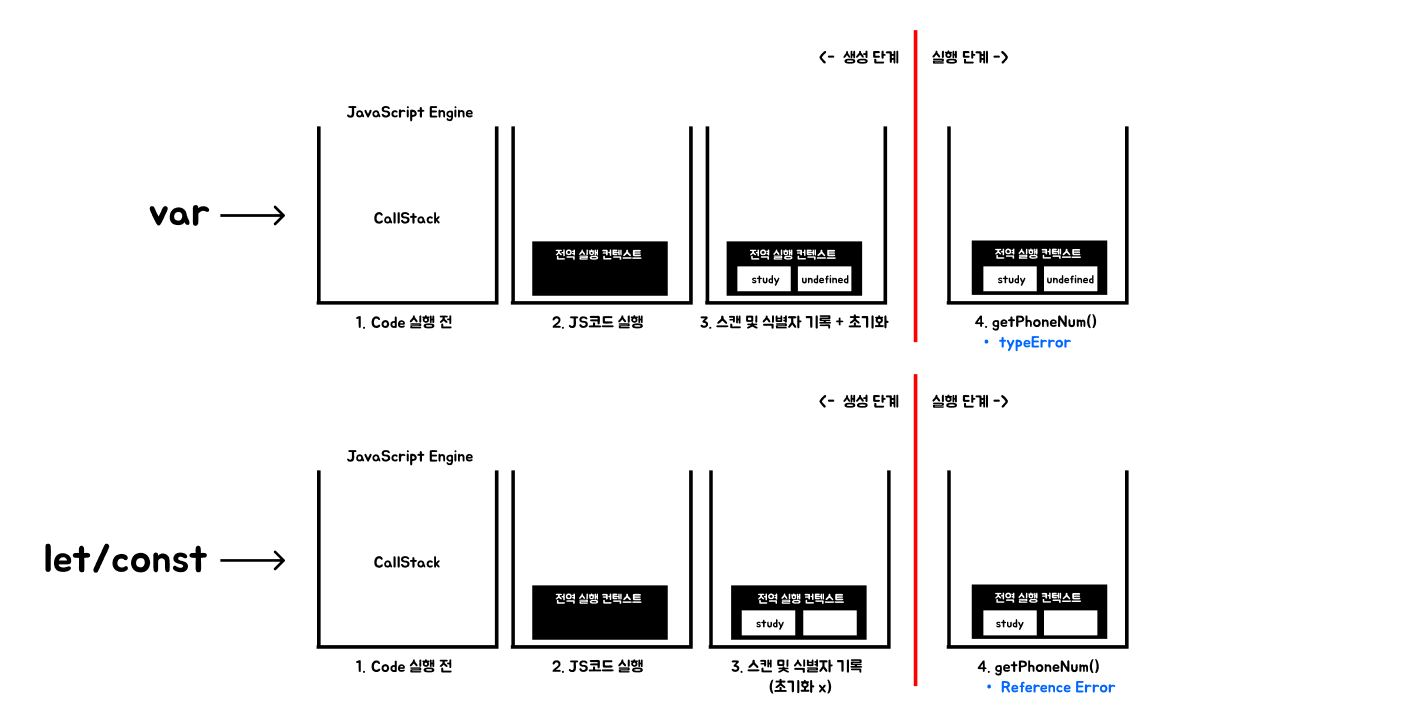
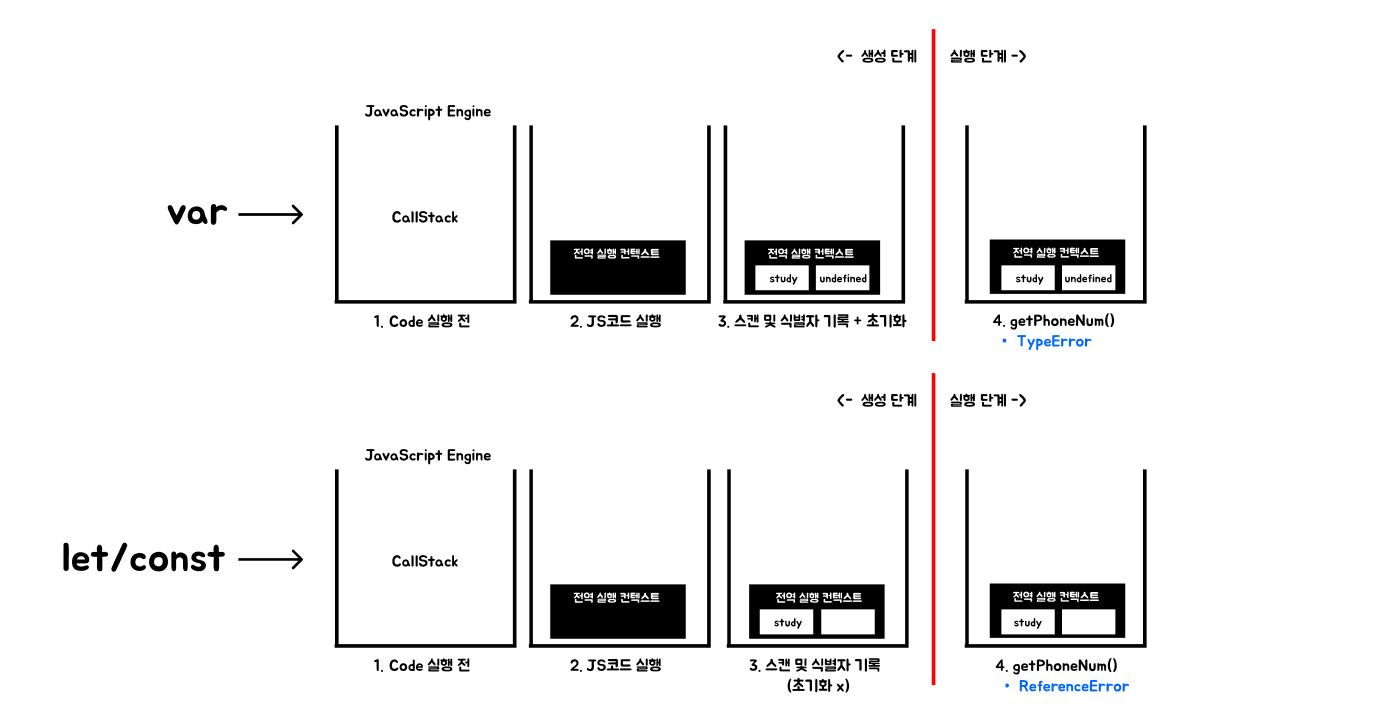
complete writing content: functionExpression and hoisting

diff --git a/pages/web_basic/executionContext.tsx b/pages/web_basic/executionContext.tsx
@@ -340,10 +340,10 @@ export default function Dom() {
                         <h2 className="font-bold title-font text-sm text-gray-900 mb-1 tracking-wider">
                             STEP 1
                         </h2>
-                        <p className="leading-relaxed mb-4">
-                        </p>
                         <p className="leading-relaxed">
+                            자바스크립트 엔진은 코드를 실행하면, 우선 전역 실행 컨텍스트를 생성해 콜 스택에 넣습니다.
                         </p>
+
                     </div>
                 </div>
                 {/* 과정 2 */}
@@ -354,8 +354,10 @@ export default function Dom() {
                             STEP 2
                         </h2>
                         <p className="leading-relaxed mb-4">
+                            그 후 전체 코드를 살펴보며, 선언할 식별자들이 있는지 찾아보고, 있다면 먼저 선언해둡니다.
                         </p>
                         <p className="leading-relaxed">
+                            자바스크립트의 함수는 변수에 담을 수 있습니다. 변수에 담긴 함수는 변수 호이스팅처럼 동작합니다.
                         </p>
                     </div>
                 </div>
@@ -366,22 +368,16 @@ export default function Dom() {
                         <h2 className="font-bold title-font text-sm text-gray-900 mb-1 tracking-wider">
                             STEP 3
                         </h2>
-                        <p className="leading-relaxed mb-4">
-
+                        <p className="leading-relaxed mb-2">
+                            {`선언하는 과정에서 생성해둔 실행 컨텍스트 안에 있는 `}
+                            <strong>환경 레코드에 새로운 식별자를 기록</strong>합니다.
                         </p>
-                        <p className="leading-relaxed">
-                        </p>
-                    </div>
-                </div>
-                {/* 과정 4 */}
-                <div className="flex relative pb-12">
-                    {returnStepLogo(4)}
-                    <div className="flex-grow pl-4">
-                        <h2 className="font-bold title-font text-sm text-gray-900 mb-1 tracking-wider">
-                            STEP 4
-                        </h2>
-                        <p className="leading-relaxed">
-                        </p>
+                        <div className="leading-relaxed text-base">
+                            <ul className="list-disc ml-7 text-sm text-slate-500 dark:text-slate-300 ">
+                                <li className="mb-1 text-left">{`var 키워드로 선언된 식별자인 경우에는 값을 undefined로 초기화합니다.`}</li>
+                                <li className="mb-1 text-left">{`let/const 로 선언한 식별자인 경우에는 값을 초기화하지 않습니다.`}</li>
+                            </ul>
+                        </div>
                     </div>
                 </div>
 
@@ -400,8 +396,15 @@ export default function Dom() {
                         <h2 className="font-bold title-font text-sm text-gray-900 mb-1 tracking-wider">
                             {`FINISH`}
                         </h2>
-                        <p className="leading-relaxed ">
+                        <p className="leading-relaxed mb-2">
+                            함수 실행 시, 이제 아래의 문제가 발생합니다. 
                         </p>
+                        <div className="leading-relaxed text-base">
+                            <ul className="list-disc ml-7 text-sm text-slate-500 dark:text-slate-300 ">
+                                <li className="mb-1 text-left">{`var 키워드로 선언된 식별자인 경우에는 `}<strong>값이 환경 레코드에 undefined로 초기화되어 저장되었기에,</strong>{` 호출 불가능하므로 TypeError가 발생합니다.`}</li>
+                                <li className="mb-1 text-left">{`let/const 로 선언한 식별자인 경우에는 `}<strong>값이 환경 레코드에 초기화되지 않았기 때문에,</strong>{` ReferenceError가 발생합니다.`}</li>
+                            </ul>
+                        </div>
                     </div>
                 </div>
             </div>
@@ -595,6 +598,7 @@ export default function Dom() {
 
                         {/* 변수 호이스팅과 환경 레코드 예시 설명 */}
                         <div className="w-full">
+
                             {/* 예제 이미지 */}
                             <div className="w-full mb-8 flex justify-center">
                                 <Image src={variableHoistingAndEnvRecordEx} alt="Code Picture of hoisting and variable(1)" className="lg:w-full rounded-lg" />
